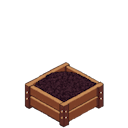
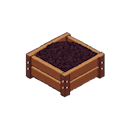
fix

diff --git a/client/src/App.tsx b/client/src/App.tsx
@@ -460,7 +460,8 @@ function AppContent() {
     useEffect(() => {
         if (!connection?.reducers) return;
 
-        const handleRefrigeratorError = () => {
+        const handleContainerValidationError = (containerType: string) => {
+            console.log(`[App] ${containerType} validation failed - playing error sound`);
             playImmediateSound('construction_placement_error', 1.0);
         };
 
@@ -468,27 +469,61 @@ function AppContent() {
         // Check if status is Failed (reducer errors come back with status.tag === 'Failed')
         if (connection.reducers.onMoveItemToRefrigerator) {
             connection.reducers.onMoveItemToRefrigerator((ctx: any, boxId: number, targetSlotIndex: number, itemInstanceId: bigint) => {
-                const status = (ctx as any).status || (ctx as any).reducerEvent?.status;
-                if (status?.tag === 'Failed' || (typeof status === 'string' && status !== 'Committed')) {
-                    handleRefrigeratorError();
+                const status = ctx.event?.status;
+                if (status?.tag === 'Failed') {
+                    console.log(`[App] moveItemToRefrigerator failed:`, status.value);
+                    handleContainerValidationError('Refrigerator');
                 }
             });
         }
 
         if (connection.reducers.onQuickMoveToRefrigerator) {
             connection.reducers.onQuickMoveToRefrigerator((ctx: any, boxId: number, itemInstanceId: bigint) => {
-                const status = (ctx as any).status || (ctx as any).reducerEvent?.status;
-                if (status?.tag === 'Failed' || (typeof status === 'string' && status !== 'Committed')) {
-                    handleRefrigeratorError();
+                const status = ctx.event?.status;
+                if (status?.tag === 'Failed') {
+                    console.log(`[App] quickMoveToRefrigerator failed:`, status.value);
+                    handleContainerValidationError('Refrigerator');
                 }
             });
         }
 
         if (connection.reducers.onSplitStackIntoRefrigerator) {
             connection.reducers.onSplitStackIntoRefrigerator((ctx: any, boxId: number, targetSlotIndex: number, sourceItemInstanceId: bigint, quantityToSplit: number) => {
-                const status = (ctx as any).status || (ctx as any).reducerEvent?.status;
-                if (status?.tag === 'Failed' || (typeof status === 'string' && status !== 'Committed')) {
-                    handleRefrigeratorError();
+                const status = ctx.event?.status;
+                if (status?.tag === 'Failed') {
+                    console.log(`[App] splitStackIntoRefrigerator failed:`, status.value);
+                    handleContainerValidationError('Refrigerator');
+                }
+            });
+        }
+
+        // Register error callbacks for all compost reducers
+        if (connection.reducers.onMoveItemToCompost) {
+            connection.reducers.onMoveItemToCompost((ctx: any, boxId: number, targetSlotIndex: number, itemInstanceId: bigint) => {
+                const status = ctx.event?.status;
+                if (status?.tag === 'Failed') {
+                    console.log(`[App] moveItemToCompost failed:`, status.value);
+                    handleContainerValidationError('Compost');
+                }
+            });
+        }
+
+        if (connection.reducers.onQuickMoveToCompost) {
+            connection.reducers.onQuickMoveToCompost((ctx: any, boxId: number, itemInstanceId: bigint) => {
+                const status = ctx.event?.status;
+                if (status?.tag === 'Failed') {
+                    console.log(`[App] quickMoveToCompost failed:`, status.value);
+                    handleContainerValidationError('Compost');
+                }
+            });
+        }
+
+        if (connection.reducers.onSplitStackIntoCompost) {
+            connection.reducers.onSplitStackIntoCompost((ctx: any, boxId: number, targetSlotIndex: number, sourceItemInstanceId: bigint, quantityToSplit: number) => {
+                const status = ctx.event?.status;
+                if (status?.tag === 'Failed') {
+                    console.log(`[App] splitStackIntoCompost failed:`, status.value);
+                    handleContainerValidationError('Compost');
                 }
             });
         }

diff --git a/client/src/utils/renderers/placementRenderingUtils.ts b/client/src/utils/renderers/placementRenderingUtils.ts
@@ -1457,13 +1457,18 @@ export function renderPlacementPreview({
         ctx.globalAlpha = 0.7;
     }
 
-    // Calculate the centered position (perfectly centered on cursor or snapped position)
-    // Preview is always centered on cursor for all items (except broth pot which snaps to campfire)
+    // Calculate the draw position - centered on cursor for all items
     const adjustedX = snappedX - drawWidth / 2;
-    // Apply 44px vertical offset for doors (matches door rendering offset)
-    const adjustedY = isDoorPlacement 
-        ? snappedY - drawHeight / 2 - 44
-        : snappedY - drawHeight / 2;
+    
+    // Door placement has a special offset, everything else is centered
+    let adjustedY: number;
+    if (isDoorPlacement) {
+        // Apply 44px vertical offset for doors (matches door rendering offset)
+        adjustedY = snappedY - drawHeight / 2 - 44;
+    } else {
+        // Default: centered on cursor (consistent for all placeable items)
+        adjustedY = snappedY - drawHeight / 2;
+    }
 
     // Draw the preview image or fallback
     if (previewImg && previewImg.complete && previewImg.naturalHeight !== 0) {

diff --git a/client/src/utils/renderers/woodenStorageBoxRenderingUtils.ts b/client/src/utils/renderers/woodenStorageBoxRenderingUtils.ts
@@ -75,10 +75,20 @@ const boxConfig: GroundEntityConfig<WoodenStorageBox> = {
         }
     },
 
-    calculateDrawPosition: (entity, drawWidth, drawHeight) => ({
-        drawX: entity.posX - drawWidth / 2,
-        drawY: entity.posY - drawHeight - 20, // Slight Y adjustment for centering
-    }),
+    calculateDrawPosition: (entity, drawWidth, drawHeight) => {
+        // Compost uses centered positioning (image content is centered in square)
+        if (entity.boxType === BOX_TYPE_COMPOST) {
+            return {
+                drawX: entity.posX - drawWidth / 2,
+                drawY: entity.posY - drawHeight / 2,
+            };
+        }
+        // Other box types use bottom-anchored positioning
+        return {
+            drawX: entity.posX - drawWidth / 2,
+            drawY: entity.posY - drawHeight - 20,
+        };
+    },
 
     getShadowParams: undefined,
 

diff --git a/client/src/utils/renderers/barbecueRenderingUtils.ts b/client/src/utils/renderers/barbecueRenderingUtils.ts
@@ -53,7 +53,7 @@ const barbecueConfig: GroundEntityConfig<Barbecue> = {
 
     calculateDrawPosition: (entity, drawWidth, drawHeight) => ({
         drawX: entity.posX - drawWidth / 2,
-        drawY: entity.posY - drawHeight - BARBECUE_RENDER_Y_OFFSET,
+        drawY: entity.posY - drawHeight / 2, // Centered - image content is centered in square
     }),
 
     getShadowParams: undefined,
